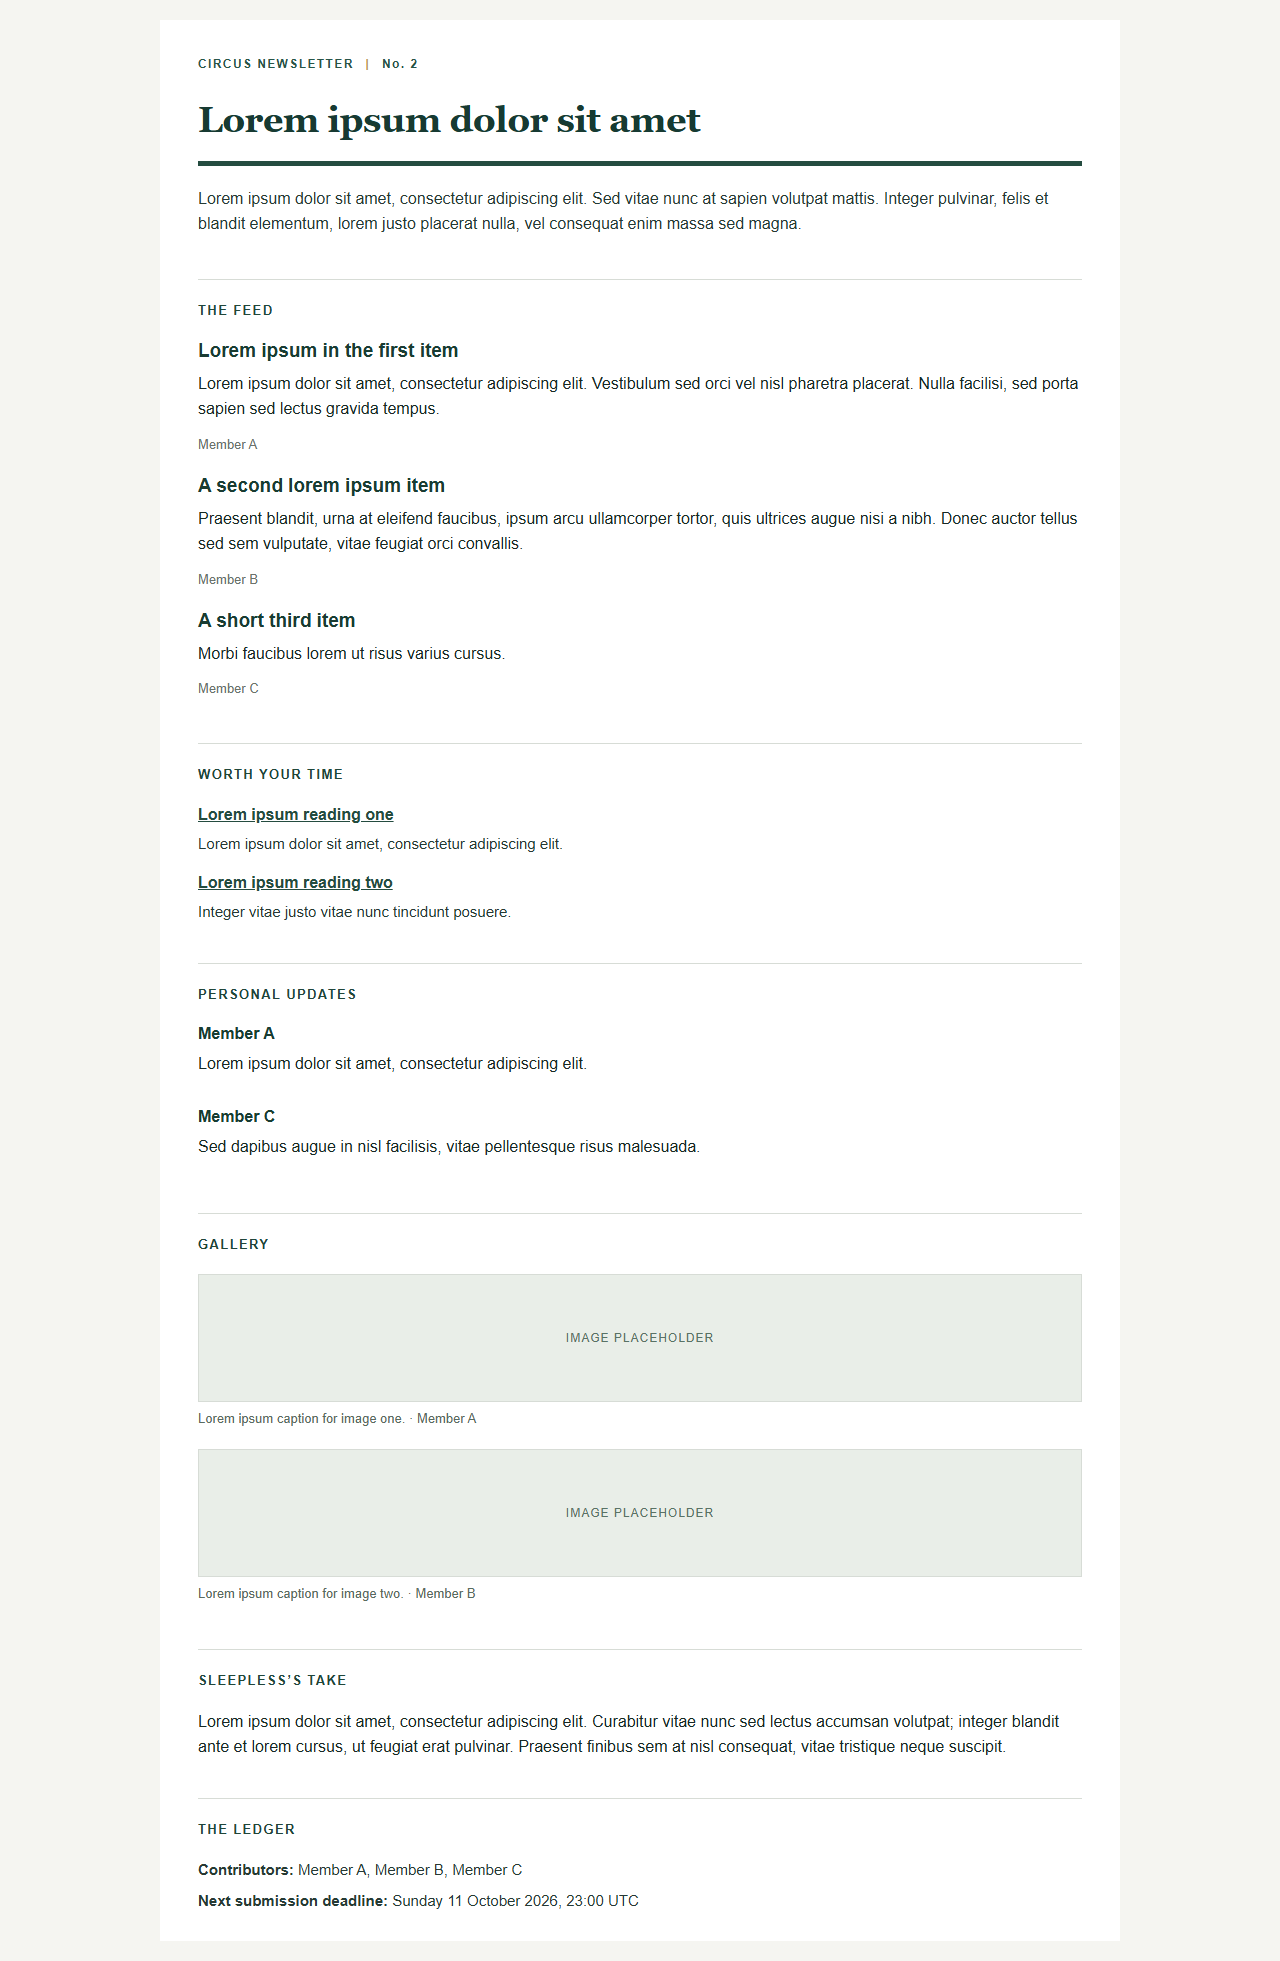
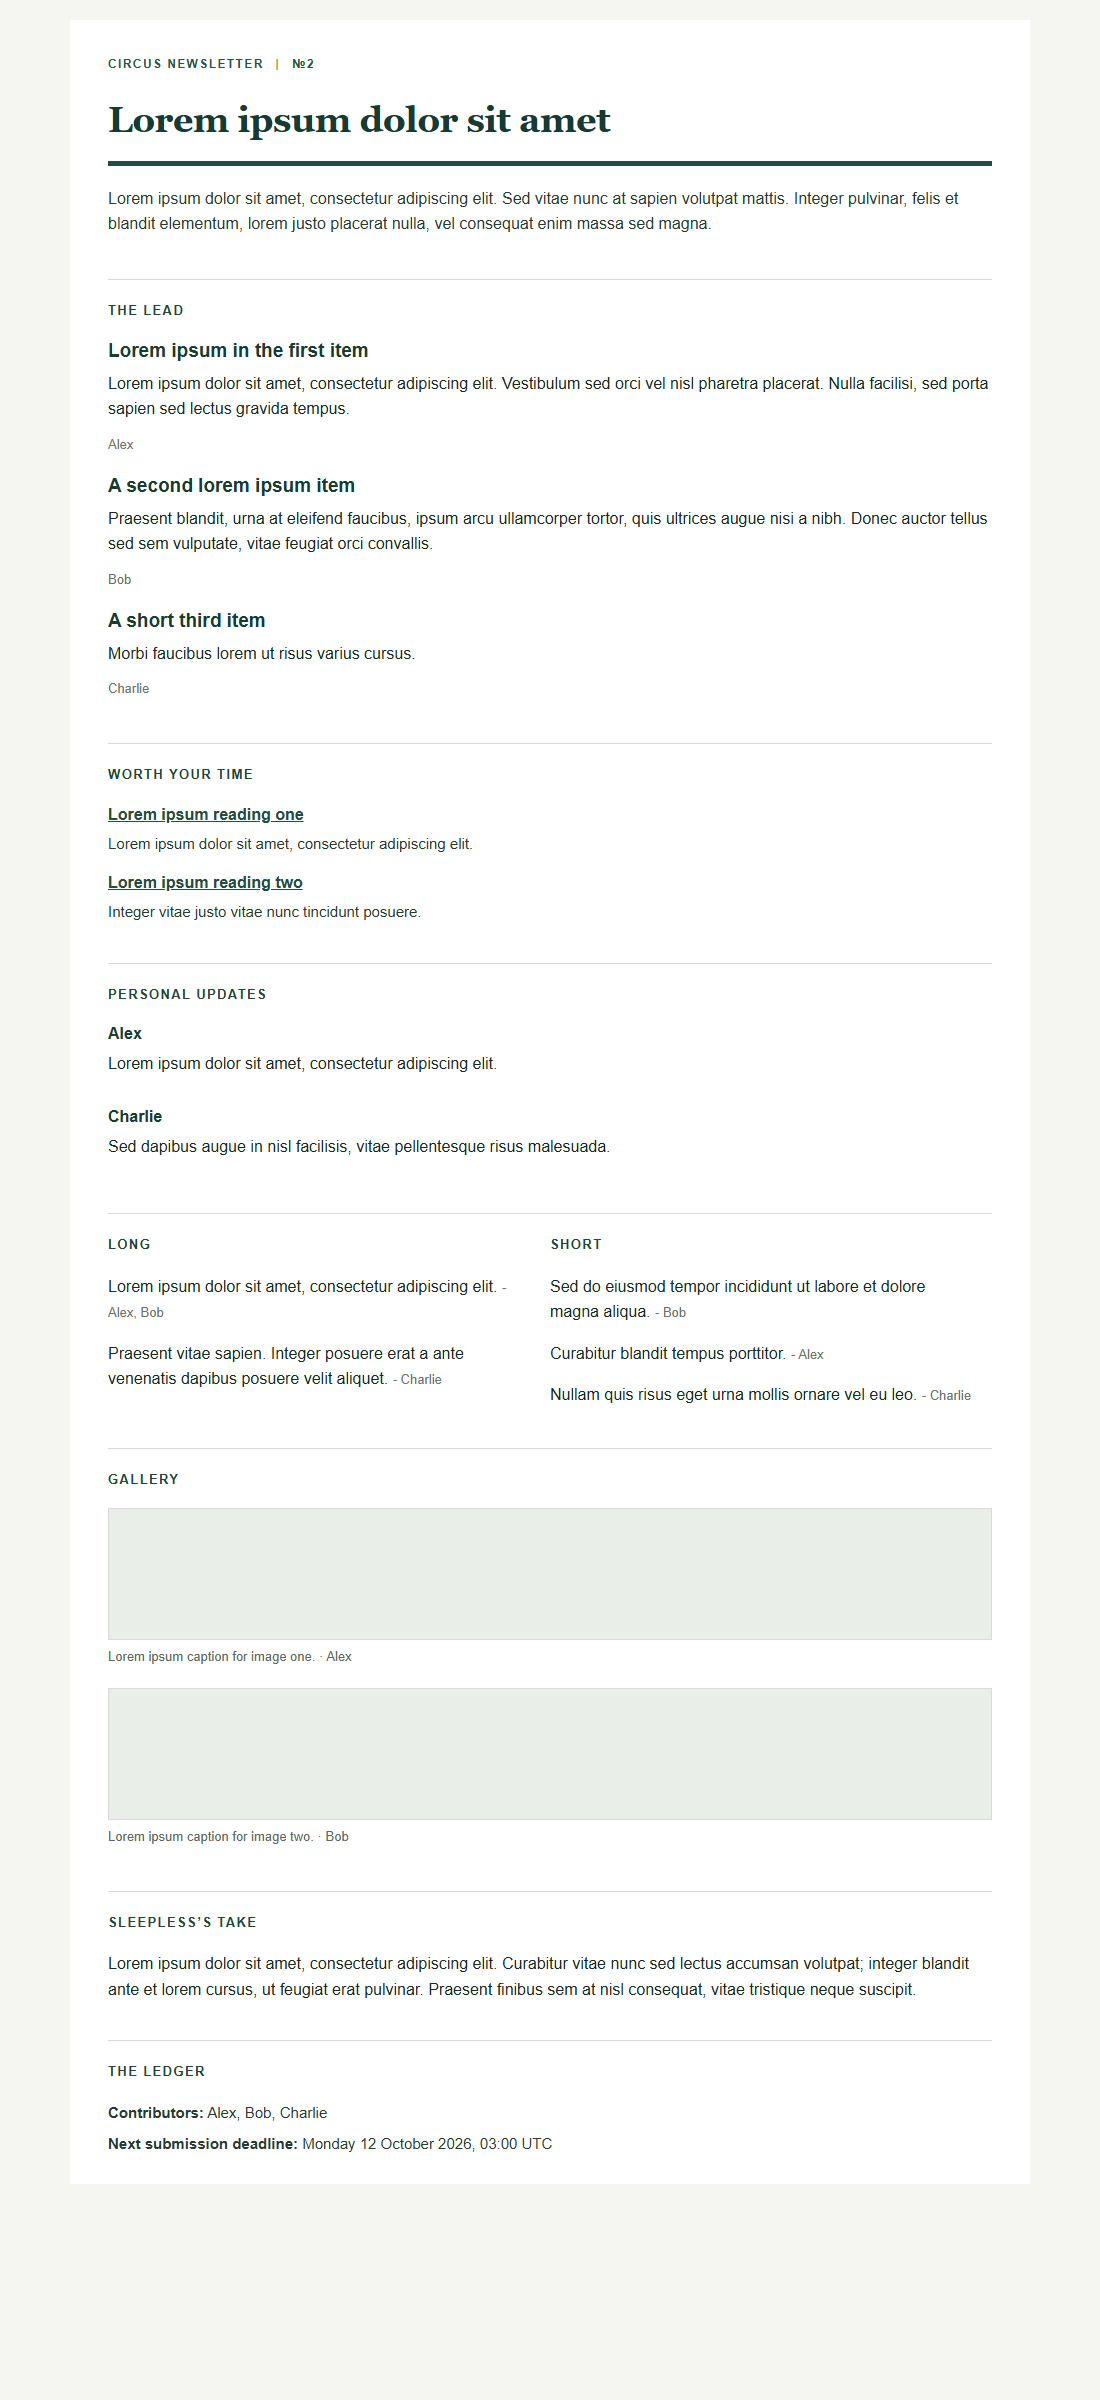
Fix manual controls for portable installs and add newsletter preview

diff --git a/tests/test_manual_ops.py b/tests/test_manual_ops.py
@@ -1,5 +1,8 @@
 import hashlib
 import json
+import os
+import shutil
+import subprocess
 import tempfile
 import unittest
 from contextlib import nullcontext
@@ -28,6 +31,64 @@ class ManualOperationsTests(unittest.TestCase):
         journal.write_text('{"status":{"casey":"pending"}}', encoding="utf-8")
         with self.assertRaisesRegex(RuntimeError, "delivery journal exists"):
             manual_ops._require_undelivered(self.issue)
+
+    def test_task_inventory_requires_both_current_tasks_and_valid_unique_states(self):
+        valid = [{"name": name, "enabled": True, "state": "Ready"} for name in manual_ops.TASKS[1:]]
+        with patch.object(manual_ops, "_powershell", return_value=json.dumps(valid)):
+            self.assertEqual(manual_ops._task_states(), valid)
+        for invalid in ([], valid[:1], valid + valid[:1],
+                        [{"name": "Other task", "enabled": True, "state": "Ready"}],
+                        [{"name": manual_ops.TASKS[1], "enabled": "true", "state": "Ready"}]):
+            with self.subTest(invalid=invalid), patch.object(manual_ops, "_powershell", return_value=json.dumps(invalid)):
+                with self.assertRaises(RuntimeError):
+                    manual_ops._task_states()
+
+    @unittest.skipUnless(os.name == "nt", "Windows task-inventory query")
+    def test_real_powershell_query_and_pause_support_both_task_layouts(self):
+        for shell in filter(None, (shutil.which("powershell.exe"), shutil.which("pwsh.exe"))):
+            for layout in (manual_ops.TASKS[1:], manual_ops.TASKS):
+                rows = [{"name": name, "enabled": name != manual_ops.TASKS[2], "state": "Ready"}
+                        for name in layout]
+                fixture = self.root / "task-fixture.json"
+                fixture.write_text(json.dumps(rows), encoding="utf-8")
+                harness = self.root / "query.ps1"
+                environment = os.environ.copy()
+                environment["CIRCUS_TASK_FIXTURE"] = str(fixture)
+
+                def query(script):
+                    harness.write_text('''function Get-ScheduledTask {
+    param([string]$TaskPath, [string]$ErrorAction)
+    if ($TaskPath -ne '\\') { throw 'Expected root-folder inventory' }
+    foreach ($row in (Get-Content -LiteralPath $env:CIRCUS_TASK_FIXTURE -Raw | ConvertFrom-Json)) {
+        [pscustomobject]@{TaskName=$row.name; Settings=[pscustomobject]@{Enabled=$row.enabled}; State=$row.state}
+    }
+    [pscustomobject]@{TaskName='Unrelated task'; Settings=[pscustomobject]@{Enabled=$true}; State='Ready'}
+}
+''' + script, encoding="utf-8")
+                    result = subprocess.run([shell, "-NoProfile", "-NonInteractive", "-Command",
+                                             harness.read_text(encoding="utf-8")],
+                                            env=environment, capture_output=True, text=True, timeout=20)
+                    if result.returncode:
+                        raise RuntimeError(result.stderr)
+                    return result.stdout
+
+                with self.subTest(shell=shell, layout=layout), \
+                        patch.object(manual_ops, "_powershell", side_effect=query), \
+                        patch.object(manual_ops, "_change_task") as change:
+                    self.assertEqual(manual_ops._task_states(), rows)
+                    with manual_ops._pause_tasks():
+                        pass
+                    names = [row["name"] for row in rows if row["enabled"]]
+                    self.assertEqual([call.args for call in change.call_args_list],
+                                     [(name, False) for name in names] + [(name, True) for name in reversed(names)])
+
+    def test_task_query_failure_prevents_manual_changes(self):
+        with patch.object(manual_ops, "_powershell", side_effect=RuntimeError("Access denied")), \
+                patch.object(manual_ops, "_change_task") as change:
+            with self.assertRaisesRegex(RuntimeError, "Access denied"):
+                with manual_ops._pause_tasks():
+                    self.fail("Should not reach mutation")
+            change.assert_not_called()
 
     def test_task_pause_restores_only_originally_enabled_tasks(self):
         before = [

diff --git a/scripts/manual_ops.py b/scripts/manual_ops.py
@@ -113,12 +113,20 @@ def _powershell(script: str) -> str:
 def _task_states() -> list[dict]:
     names = ",".join("'" + name.replace("'", "''") + "'" for name in TASKS)
     script = ("$ErrorActionPreference='Stop'; $names=@(" + names + "); "
-              "$rows=@(foreach($name in $names){$t=Get-ScheduledTask -TaskName $name; "
-              "[pscustomobject]@{name=$name;enabled=[bool]$t.Settings.Enabled;state=[string]$t.State}}); "
+              "$rows=@(Get-ScheduledTask -TaskPath '\\' -ErrorAction Stop | "
+              "Where-Object {$_.TaskName -in $names} | ForEach-Object {"
+              "[pscustomobject]@{name=$_.TaskName;enabled=[bool]$_.Settings.Enabled;state=[string]$_.State}}); "
               "ConvertTo-Json -InputObject $rows -Compress")
     rows = json.loads(_powershell(script))
-    if not isinstance(rows, list) or len(rows) != len(TASKS):
-        raise RuntimeError("Could not establish the state of every Circus task")
+    required = set(TASKS[1:])  # New installs have no separate legacy Intake task.
+    if (not isinstance(rows, list)
+            or any(not isinstance(row, dict) or not isinstance(row.get("name"), str)
+                   or type(row.get("enabled")) is not bool or not isinstance(row.get("state"), str)
+                   for row in rows)):
+        raise RuntimeError("Could not establish the state of the newsletter tasks")
+    found = {row["name"] for row in rows}
+    if not required <= found <= set(TASKS) or len(found) != len(rows):
+        raise RuntimeError("Final Build and Delivery tasks must be registered; legacy Intake is optional")
     return rows
 
 
@@ -126,7 +134,7 @@ def _change_task(name: str, enabled: bool) -> None:
     if name not in TASKS:
         raise ValueError("Unknown scheduled task")
     verb = "Enable" if enabled else "Disable"
-    _powershell(f"$ErrorActionPreference='Stop'; {verb}-ScheduledTask -TaskName '{name}' | Out-Null")
+    _powershell(f"$ErrorActionPreference='Stop'; {verb}-ScheduledTask -TaskName '{name}' -TaskPath '\\' | Out-Null")
 
 
 @contextmanager

diff --git a/templates/README.md b/templates/README.md
@@ -10,6 +10,6 @@ From the project root, regenerate the samples after changing the layout or fille
 
 The HTML uses a fluid table that fills the available width up to 960px, with mostly inline CSS. Text wraps within that width, including on phones. The 960px limit keeps lines readable on very wide desktop displays. Noto Sans and Noto Serif match the font families found in the operations PDF; Arial and Georgia are fallbacks for recipients without those fonts. The layout and CSS are meant to be revised after visual review. The operations PDF is a brief and original-submissions archive, not a finished issue email.
 
-The sample has the requested order: masthead with computed issue number, editor-provided title, a strong rule, editor-provided summary, THE FEED, WORTH YOUR TIME, PERSONAL UPDATES, GALLERY, SLEEPLESS’S TAKE, and THE LEDGER. Sleepless’s Take is required for AI drafts and blank in the deterministic fallback; the preview uses filler text. Other optional sections disappear when they have no items. The gallery uses blank boxes only in preview mode. A real render requires each image to have a `cid:` reference or HTTPS URL, plus caption, credit, and alt text.
+The sample order is masthead with computed issue number, title, a strong rule, summary, THE LEAD, WORTH YOUR TIME, PERSONAL UPDATES, LONG and SHORT columns, GALLERY, SLEEPLESS’S TAKE, and THE LEDGER. The editorial is required for AI drafts and blank in the deterministic fallback; the preview uses filler text. Optional sections disappear when they have no items. The gallery uses blank boxes only in preview mode. A real render requires each image to have a `cid:` reference or HTTPS URL, plus caption, credit, and alt text. The README screenshot shows the fictional HTML sample; it contains no real submissions or images.
 
-`circus_newsletter/render.py` escapes issue text, checks link schemes, computes the issue number and next deadline from `config/schedule.json`, and produces both HTML and a plain-text companion. It does not decide what editorial text goes into the sections and does not send email. The future editor should produce reviewed structured content in the same shape as `preview-data.json`; delivery remains a separate later stage.
+`circus_newsletter/render.py` escapes issue text, checks link schemes, computes the issue number and next deadline from `config/schedule.json`, and produces both HTML and a plain-text companion. It does not decide what editorial text goes into the sections and does not send email. The editor's structured output is validated and converted to renderable issue data before delivery; `preview-data.json` demonstrates that rendered data shape.

diff --git a/scripts/manual/README.md b/scripts/manual/README.md
@@ -8,7 +8,7 @@ Double-click one of the numbered `.cmd` files on the installation host. The wind
 4. **Hold or release** changes only this issue's delivery hold. Release checks the frozen-input and MIME-draft hashes and the 20 MiB size policy. It does not send an email; it allows the existing schedule to do so.
 5. **Scan inbox** reads Gmail INBOX without changing messages, archives unseen mail, and rebuilds affected live issue inputs. It does not freeze an issue, invoke the editor, post Discord notifications, contact SMTP, or send mail.
 
-For a future bot, call `scripts/manual_ops.py` directly with `--issue`, `--candidate`, `--action`, `--reason`, and `--yes` as appropriate. Do not pass untrusted text through a shell. The tool serializes its own operations, and pauses and restores the three scheduled Circus tasks during live mutations. It preserves tasks that were already disabled. If it reports that task state could not be restored, inspect Task Scheduler before relying on automation.
+For a future bot, call `scripts/manual_ops.py` directly with `--issue`, `--candidate`, `--action`, `--reason`, and `--yes` as appropriate. Do not pass untrusted text through a shell. The tool serializes its own operations, and pauses and restores the registered newsletter tasks during live mutations. Both Final Build and Delivery must be registered; a separate legacy Intake task is supported when present but is not required for new installations. Unrelated tasks are left alone, and tasks that were already disabled stay disabled. If it reports that task state could not be restored, inspect Task Scheduler before relying on automation.
 
 Examples from the installation folder:
 

diff --git a/README.md b/README.md
@@ -2,6 +2,14 @@
 
 A Windows newsletter pipeline for collecting email submissions, preparing AI-edited or deterministic fallback drafts, rendering HTML/plain text, and delivering scheduled issues. Private settings, credentials, roster, submissions, delivery journals, and local operational tools are excluded from the release source.
 
+## Sample newsletter
+
+[View the sample HTML](https://htmlpreview.github.io/?https://github.com/Strajevski/Sleepless-Newsletter/blob/main/templates/sample-issue.html) · [Download the HTML](https://raw.githubusercontent.com/Strajevski/Sleepless-Newsletter/main/templates/sample-issue.html)
+
+This example uses lorem ipsum and fictional contributors, including the Long and Short columns. The Gallery is intentionally blank. The browser preview uses a third-party viewer and will work after this repository is public; you can also download the HTML and open it locally.
+
+![Sample newsletter with fictional contributors and Long and Short columns](templates/sample-desktop.png)
+
 ## Requirements
 
 * A Windows computer acting as the server, able to remain on, awake and connected to the internet during scheduled operations. Windows 11 26H2 is the tested version; other versions may work but are not confirmed here.
